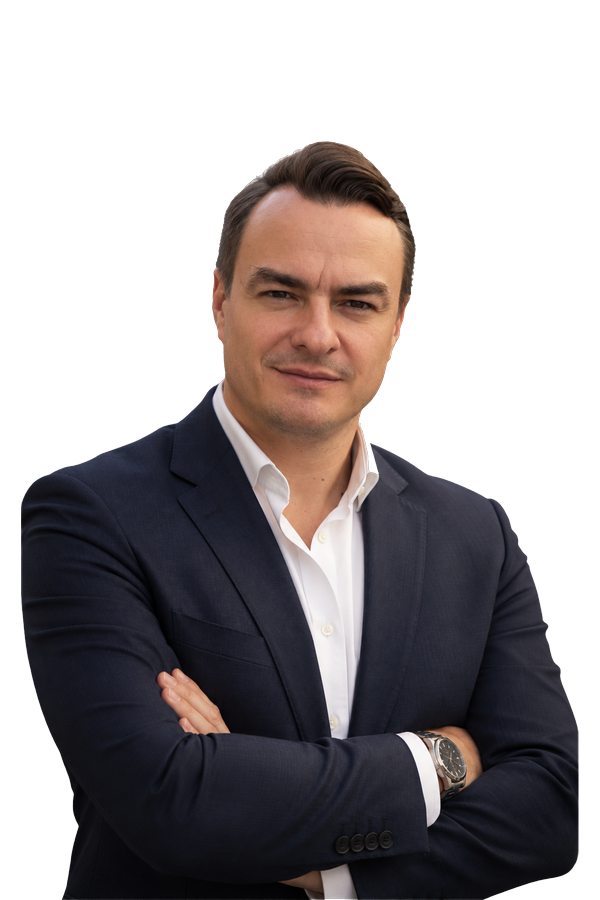
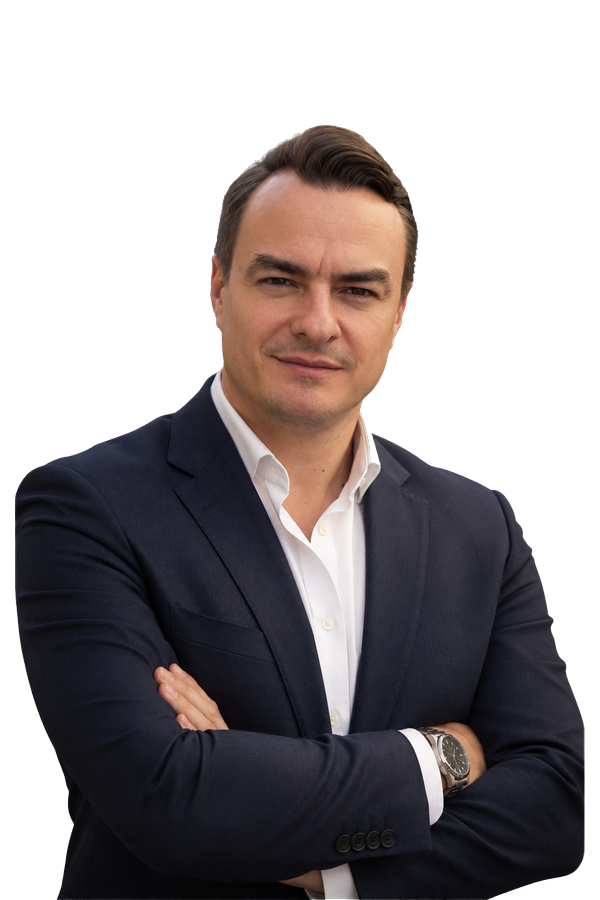
Zbigniew photo: +2% main page (95%), +5% o-nas page (89%)

diff --git a/o-nas.html b/o-nas.html
@@ -273,7 +273,7 @@ nav > a.active { color:var(--T); }
 .pcard:hover{box-shadow:0 16px 52px rgba(9,28,46,.12);transform:translateY(-3px);border-color:rgba(32,169,185,.3);}
 .pcard-photo{background:transparent;height:400px;overflow:hidden;display:flex;align-items:flex-end;justify-content:center;}
 .pcard-photo img{width:80%;max-height:100%;object-fit:contain;object-position:bottom center;display:block;}
-.pcard-photo--lg img{width:84%;}
+.pcard-photo--lg img{width:89%;}
 .pcard-body{padding:28px 30px 32px;}
 .pcard-name{font-size:24px;font-weight:800;color:var(--N);margin-bottom:4px;}
 .pcard-role{font-size:12.5px;font-weight:700;color:var(--T);text-transform:uppercase;letter-spacing:.07em;margin-bottom:18px;}
